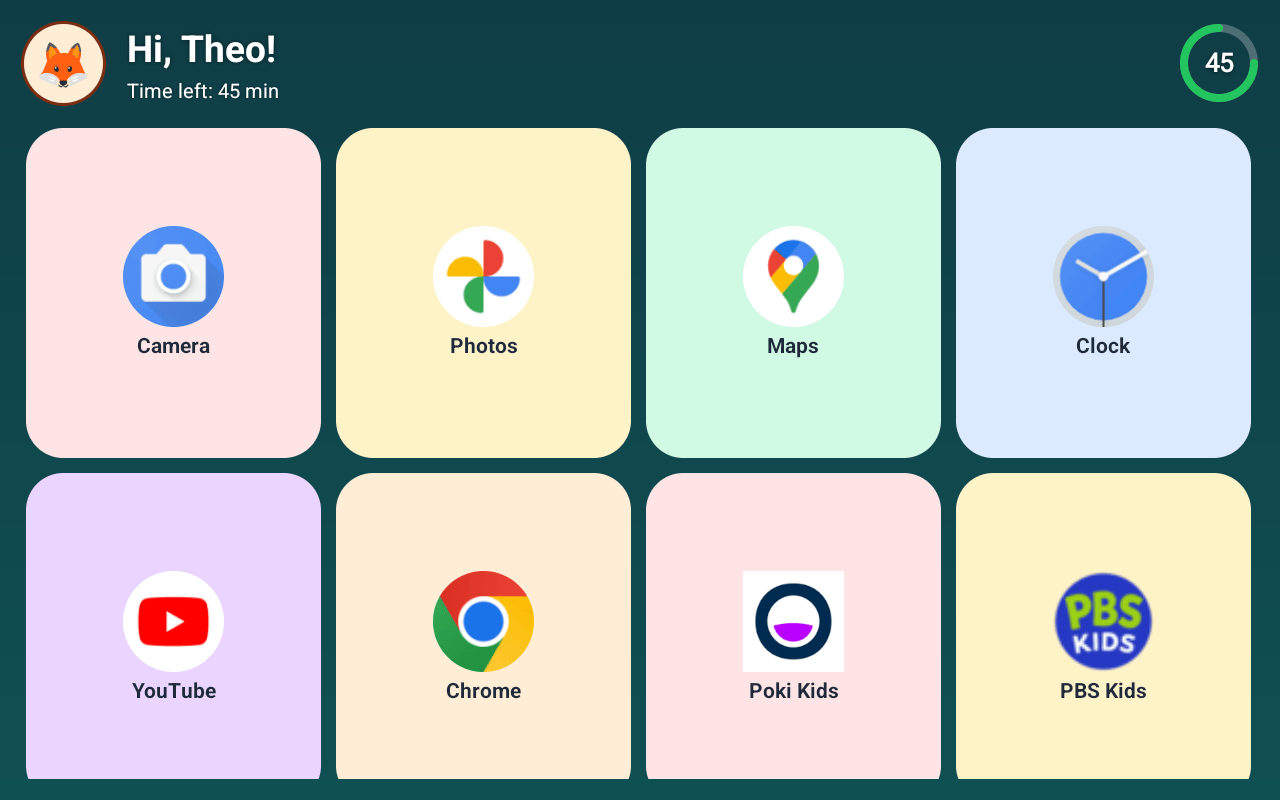
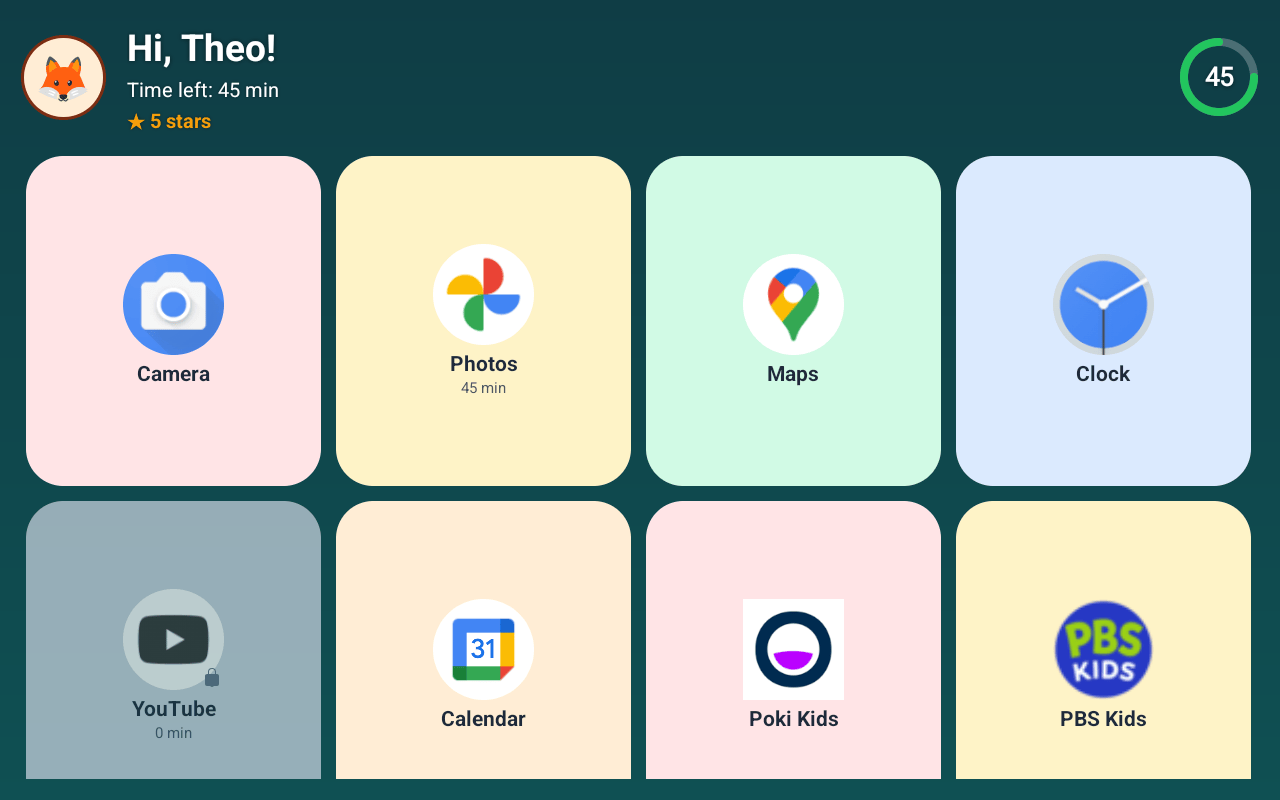
Point KidsHome links to appstudio42 and refresh 1.4.0 screenshots
Update the catalog repo/download URLs after the org transfer, replace the
KidsHome gallery with current 1.4.0 captures, and keep the Android package
name unchanged.

diff --git a/src/i18n/pt-BR.ts b/src/i18n/pt-BR.ts
@@ -94,16 +94,10 @@ export const ptBR: SiteContent = {
                 title: "Só apps permitidos",
                 text: "Monte a grade com o que a criança pode usar. O resto fica fora do alcance.",
               },
-              material: {
-                title: "Material 3 em pastéis",
-                text: "Interface alegre em 5 idiomas (en, pt-BR, es, fr, de), com temas claro e escuro na área dos pais.",
+              schedules: {
+                title: "Horários, limites e estrelas",
+                text: "Janelas por dia, limites por app, estrelas para ganhar tempo e relatório semanal local (1.4.0).",
               },
-            },
-            upcoming: {
-              schedules: "Horários e janelas por dia",
-              perApp: "Limites por app",
-              stars: "Estrelas para ganhar tempo",
-              report: "Relatório semanal local",
             },
             modes: {
               fire: "Amazon Fire via acessibilidade",
@@ -111,14 +105,14 @@ export const ptBR: SiteContent = {
               kiosk: "Kiosk Device Owner",
             },
             screenshots: {
-              kidHome: "Tela inicial infantil com apps e anel de tempo",
-              screenTime: "Configuração de tempo de tela e horário de dormir",
-              allowedApps: "Seleção de apps permitidos",
-              pin: "Teclado PIN da área dos pais",
+              kidHome: "Tela inicial infantil com apps, anel de tempo e estrelas",
+              schedules: "Categorias de apps para regras de horário",
+              appLimits: "Limites por app na área dos pais",
+              weeklyReport: "Relatório semanal local de uso",
             },
             ctaDownload: "Baixar APK",
             ctaRepo: "Ver repositório",
-            upcomingLabel: "Chegando na 1.4.0",
+            upcomingLabel: "Em breve",
             modesLabel: "Modos de proteção",
             setupCaption: "Fluxo de configuração — PIN, apps, tempo de tela e modo criança",
           },

diff --git a/src/i18n/en.ts b/src/i18n/en.ts
@@ -94,16 +94,10 @@ export const en: SiteContent = {
                 title: "Allowed apps only",
                 text: "Build the grid with what your child can use. Everything else stays out of reach.",
               },
-              material: {
-                title: "Material 3 pastels",
-                text: "Cheerful UI in 5 languages (en, pt-BR, es, fr, de), with light and dark parent themes.",
+              schedules: {
+                title: "Schedules, limits, and stars",
+                text: "Day windows, per-app limits, earn-time stars, and a local weekly report (1.4.0).",
               },
-            },
-            upcoming: {
-              schedules: "Schedules and day windows",
-              perApp: "Per-app limits",
-              stars: "Earn-time stars",
-              report: "Local weekly report",
             },
             modes: {
               fire: "Amazon Fire via accessibility",
@@ -111,14 +105,14 @@ export const en: SiteContent = {
               kiosk: "Device Owner kiosk",
             },
             screenshots: {
-              kidHome: "Kid home with apps and time ring",
-              screenTime: "Screen-time and bedtime settings",
-              allowedApps: "Allowed apps picker",
-              pin: "Parent area PIN keypad",
+              kidHome: "Kid home with apps, time ring, and stars",
+              schedules: "App categories for schedule rules",
+              appLimits: "Per-app limits in the parent area",
+              weeklyReport: "Local weekly usage report",
             },
             ctaDownload: "Download APK",
             ctaRepo: "View repository",
-            upcomingLabel: "Coming in 1.4.0",
+            upcomingLabel: "Coming soon",
             modesLabel: "Protection modes",
             setupCaption: "Setup flow — PIN, apps, screen time, and kid mode",
           },

diff --git a/src/data/products.ts b/src/data/products.ts
@@ -57,11 +57,8 @@ export interface ProductLine {
   roadmap: RoadmapItem[];
 }
 
-/**
- * KidsHome currently lives under marcelsavegnago; it will move to
- * github.com/appstudio42/KidsHome. Keep both URLs here only.
- */
-const KIDSHOME_REPO = "https://github.com/marcelsavegnago/KidsHome";
+/** Single source of truth for KidsHome repo / release URLs. */
+const KIDSHOME_REPO = "https://github.com/appstudio42/KidsHome";
 const KIDSHOME_DOWNLOAD = `${KIDSHOME_REPO}/releases/latest`;
 
 export const productLines: ProductLine[] = [
@@ -79,13 +76,12 @@ export const productLines: ProductLine[] = [
         },
         setupMedia: "/media/kidshome-setup.gif",
         screenshots: [
-          { src: "/screenshots/kidshome/hero-kid-home.png", altKey: "kidHome" },
-          { src: "/screenshots/kidshome/05-screen-time-settings.png", altKey: "screenTime" },
-          { src: "/screenshots/kidshome/07-allowed-apps.png", altKey: "allowedApps" },
-          { src: "/screenshots/kidshome/03-pin-entry.png", altKey: "pin" },
+          { src: "/screenshots/kidshome/01-kid-home.png", altKey: "kidHome" },
+          { src: "/screenshots/kidshome/09-schedules.png", altKey: "schedules" },
+          { src: "/screenshots/kidshome/10-app-limits.png", altKey: "appLimits" },
+          { src: "/screenshots/kidshome/12-weekly-report.png", altKey: "weeklyReport" },
         ],
-        featureKeys: ["pin", "timeRing", "allowedApps", "material"],
-        upcomingKeys: ["schedules", "perApp", "stars", "report"],
+        featureKeys: ["pin", "timeRing", "allowedApps", "schedules"],
         modeKeys: ["fire", "launcher", "kiosk"],
       },
     ],
